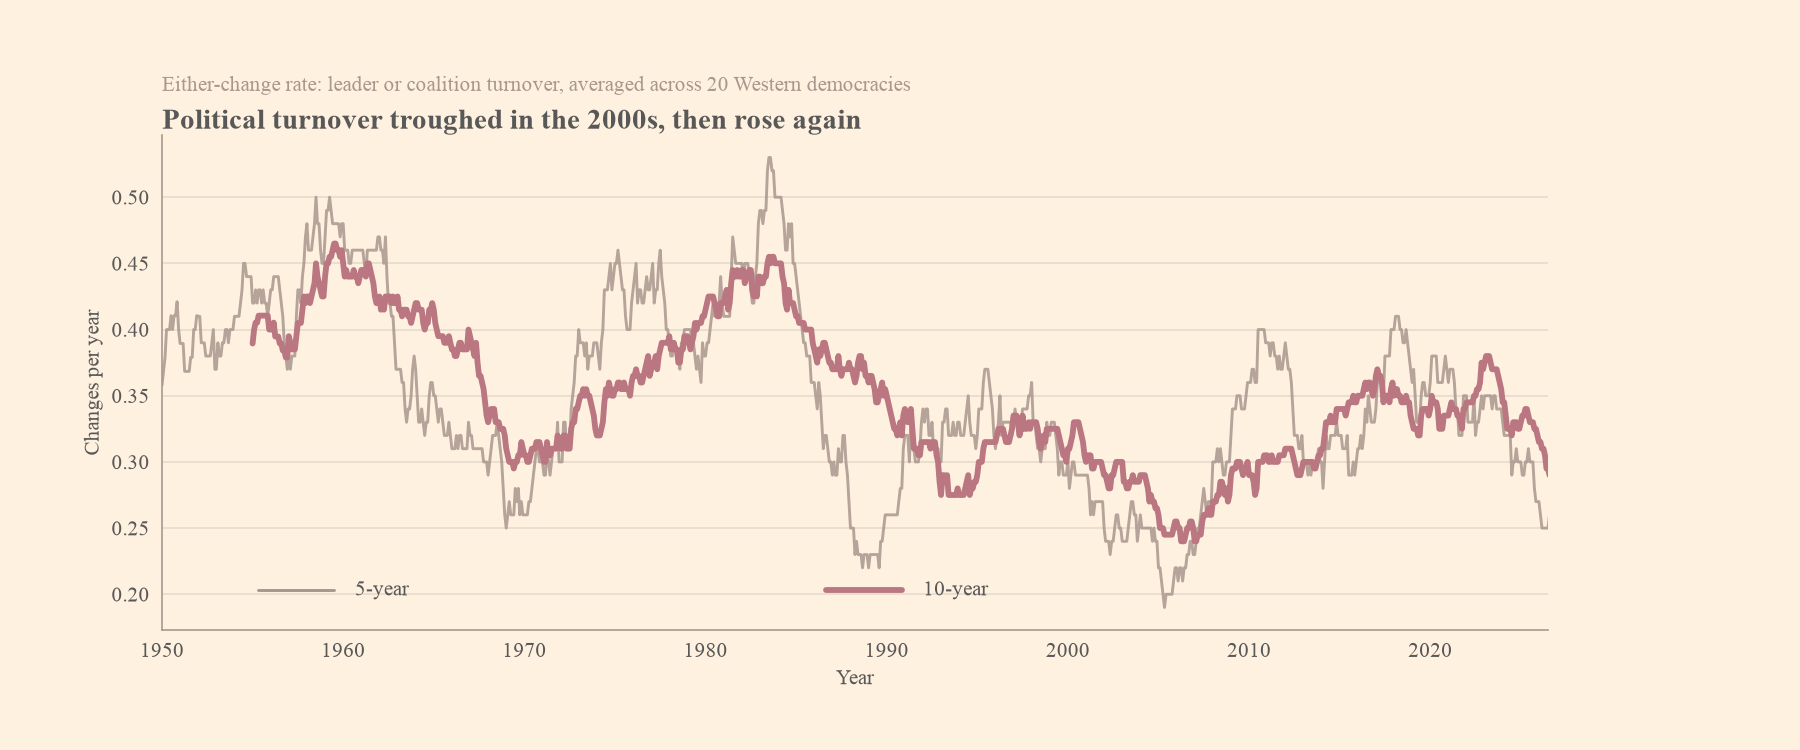
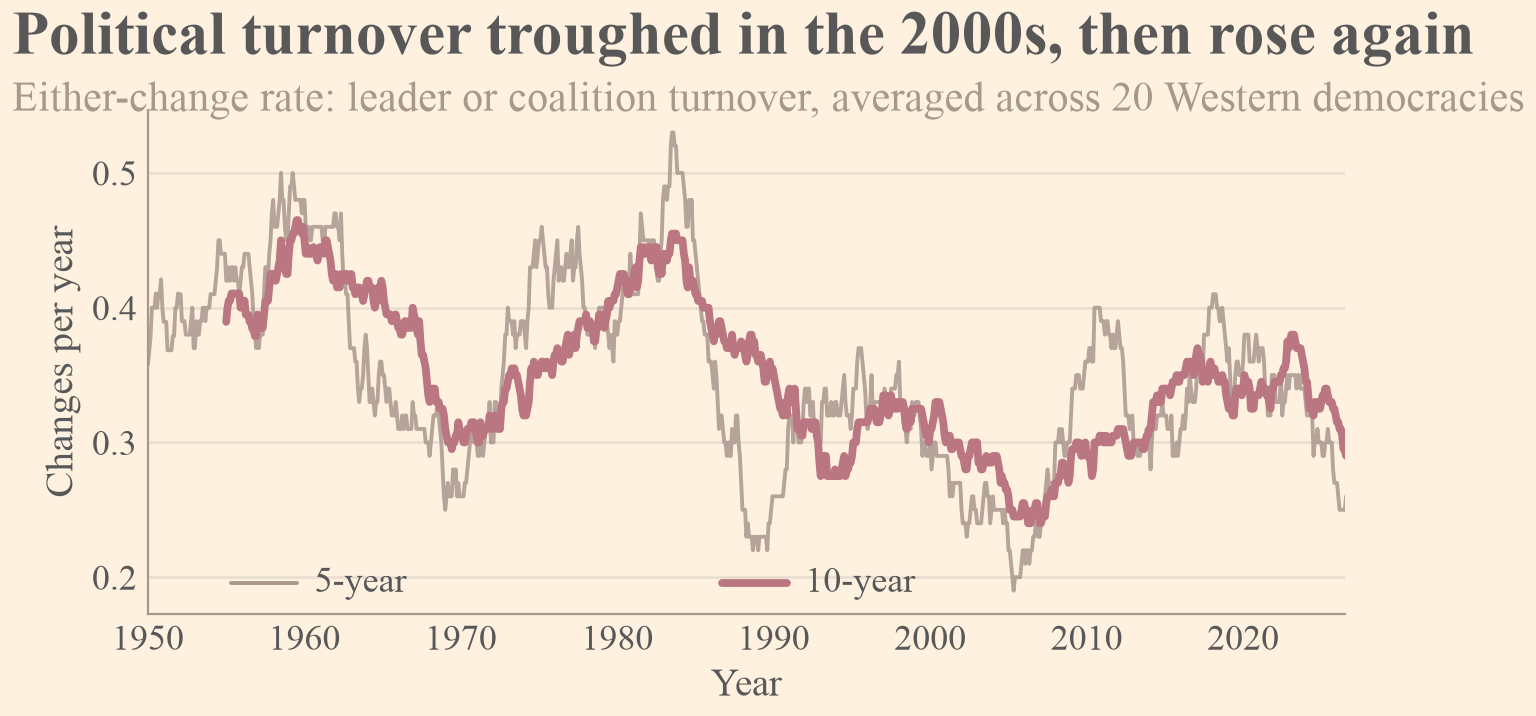
Improve instability post chart readability on the page.
Use article-width export, larger type, tighter margins, and regenerated PNGs.

diff --git a/scripts/generate_instability_charts.py b/scripts/generate_instability_charts.py
@@ -19,6 +19,16 @@ GRAY_MED = "#A9978E"
 GRAY_LIGHT = "#E8DDD0"
 PLOT_START = pd.Timestamp("1950-01-01")
 PLOT_WINDOWS = [5, 10]
+# Sized for ~680px article width; fonts must stay readable after scaling.
+FIG_W = 6.8
+FIG_H_SINGLE = 3.5
+FIG_H_DUAL = 3.9
+DPI = 200
+TITLE_SIZE = 22
+SUBTITLE_SIZE = 15
+LABEL_SIZE = 14
+TICK_SIZE = 13
+LEGEND_SIZE = 13
 WINDOW_STYLE = {
     10: {"color": ACCENT, "linewidth": 2.8, "alpha": 1.0, "label": "10-year"},
     5: {"color": GRAY_MED, "linewidth": 1.4, "alpha": 0.85, "label": "5-year"},
@@ -50,12 +60,43 @@ def _swd_axes(ax: plt.Axes) -> None:
     ax.spines["right"].set_visible(False)
     ax.spines["left"].set_color(GRAY_MED)
     ax.spines["bottom"].set_color(GRAY_MED)
-    ax.tick_params(axis="both", colors=TEXT, labelsize=10, length=0, pad=6)
+    ax.tick_params(axis="both", colors=TEXT, labelsize=TICK_SIZE, length=0, pad=4)
     ax.yaxis.grid(True, color=GRAY_LIGHT, linewidth=0.9)
     ax.set_axisbelow(True)
 
 
-def _legend_above_xaxis(ax: plt.Axes, entries: list[tuple], y: float = 0.08) -> None:
+def _blog_headlines(fig: plt.Figure, title: str, subtitle: str) -> None:
+    fig.text(
+        0.0,
+        1.0,
+        title,
+        fontsize=TITLE_SIZE,
+        fontweight="bold",
+        color=TEXT,
+        ha="left",
+        va="top",
+        transform=fig.transFigure,
+    )
+    fig.text(
+        0.0,
+        0.90,
+        subtitle,
+        fontsize=SUBTITLE_SIZE,
+        color=GRAY_MED,
+        ha="left",
+        va="top",
+        transform=fig.transFigure,
+    )
+
+
+def _blog_margins(fig: plt.Figure, *, dual_axis: bool = False) -> None:
+    if dual_axis:
+        fig.subplots_adjust(left=0.11, right=0.89, top=0.86, bottom=0.14)
+    else:
+        fig.subplots_adjust(left=0.10, right=0.98, top=0.86, bottom=0.14)
+
+
+def _legend_above_xaxis(ax: plt.Axes, entries: list[tuple], y: float = 0.06) -> None:
     if not entries:
         return
     width = 0.82
@@ -82,10 +123,14 @@ def _legend_above_xaxis(ax: plt.Axes, entries: list[tuple], y: float = 0.08) -> 
             transform=ax.transAxes,
             va="center",
             ha="left",
-            fontsize=10,
+            fontsize=LEGEND_SIZE,
             color=TEXT,
             clip_on=False,
         )
+
+
+def _save(fig: plt.Figure, path: Path) -> None:
+    fig.savefig(path, dpi=DPI, facecolor=BG, bbox_inches="tight", pad_inches=0.06)
 
 
 def _load_western_either() -> pd.DataFrame:
@@ -157,7 +202,7 @@ def _either_5yr_annual(western_either: pd.DataFrame) -> pd.DataFrame:
 
 
 def plot_either_change(western_either: pd.DataFrame, output_dir: Path) -> Path:
-    fig, ax = plt.subplots(figsize=(12, 5))
+    fig, ax = plt.subplots(figsize=(FIG_W, FIG_H_SINGLE))
     fig.patch.set_facecolor(BG)
     _swd_axes(ax)
 
@@ -179,37 +224,19 @@ def plot_either_change(western_either: pd.DataFrame, output_dir: Path) -> Path:
         lines.append((line, style["label"]))
         data_end = max(data_end, data["date"].max())
 
-    ax.text(
-        0.0,
-        1.08,
-        "Either-change rate: leader or coalition turnover, averaged across 20 Western democracies",
-        transform=ax.transAxes,
-        fontsize=10,
-        color=GRAY_MED,
-        va="bottom",
-        ha="left",
-        clip_on=False,
-    )
-    ax.text(
-        0.0,
-        1.0,
+    _blog_headlines(
+        fig,
         "Political turnover troughed in the 2000s, then rose again",
-        transform=ax.transAxes,
-        fontsize=14,
-        fontweight="bold",
-        color=TEXT,
-        va="bottom",
-        ha="left",
-        clip_on=False,
+        "Either-change rate: leader or coalition turnover, averaged across 20 Western democracies",
     )
-    ax.set_ylabel("Changes per year", fontsize=10)
-    ax.set_xlabel("Year", fontsize=10)
+    ax.set_ylabel("Changes per year", fontsize=LABEL_SIZE)
+    ax.set_xlabel("Year", fontsize=LABEL_SIZE)
     ax.set_xlim(PLOT_START.year, data_end.year + 0.5)
     _legend_above_xaxis(ax, lines)
-    fig.subplots_adjust(left=0.09, right=0.86, top=0.82, bottom=0.16)
+    _blog_margins(fig)
 
     path = output_dir / "either-change-rate.png"
-    fig.savefig(path, dpi=150, facecolor=BG)
+    _save(fig, path)
     plt.close(fig)
     return path
 
@@ -226,7 +253,7 @@ def plot_instability_vs_growth(western_either: pd.DataFrame, output_dir: Path) -
         .sort_values("year")
     )
 
-    fig, ax_instability = plt.subplots(figsize=(12.5, 5.8))
+    fig, ax_instability = plt.subplots(figsize=(FIG_W, FIG_H_DUAL))
     fig.patch.set_facecolor(BG)
     ax_growth = ax_instability.twinx()
     ax_instability.set_facecolor(BG)
@@ -248,33 +275,15 @@ def plot_instability_vs_growth(western_either: pd.DataFrame, output_dir: Path) -
         solid_capstyle="round",
     )
 
-    ax_instability.text(
-        0.0,
-        1.16,
-        "GDP growth = cross-country mean of year-on-year % changes, smoothed over 5 years",
-        transform=ax_instability.transAxes,
-        fontsize=10,
-        color=GRAY_MED,
-        va="bottom",
-        ha="left",
-        clip_on=False,
-    )
-    ax_instability.text(
-        0.0,
-        1.06,
+    _blog_headlines(
+        fig,
         "Instability rose after the 2000s while GDP growth trended lower",
-        transform=ax_instability.transAxes,
-        fontsize=14,
-        fontweight="bold",
-        color=TEXT,
-        va="bottom",
-        ha="left",
-        clip_on=False,
+        "GDP growth = cross-country mean of year-on-year % changes, smoothed over 5 years",
     )
 
-    ax_instability.set_ylabel("Either-changes per year", color=ACCENT, fontsize=10)
-    ax_growth.set_ylabel("GDP growth (%)", color=SECONDARY, fontsize=10)
-    ax_instability.set_xlabel("Year", fontsize=10)
+    ax_instability.set_ylabel("Either-changes per year", color=ACCENT, fontsize=LABEL_SIZE)
+    ax_growth.set_ylabel("GDP growth (%)", color=SECONDARY, fontsize=LABEL_SIZE)
+    ax_instability.set_xlabel("Year", fontsize=LABEL_SIZE)
     ax_instability.set_xlim(combined["year"].min() - 0.5, combined["year"].max() + 0.5)
     ax_instability.set_ylim(0, combined["either_change_rate"].max() * 1.45 + 0.05)
     growth_pad = max(
@@ -293,9 +302,9 @@ def plot_instability_vs_growth(western_either: pd.DataFrame, output_dir: Path) -
     ax_instability.spines["left"].set_color(ACCENT)
     ax_instability.spines["bottom"].set_color(GRAY_MED)
     ax_growth.spines["right"].set_color(SECONDARY)
-    ax_instability.tick_params(axis="y", colors=ACCENT, labelsize=10, length=0, pad=6)
-    ax_growth.tick_params(axis="y", colors=SECONDARY, labelsize=10, length=0, pad=6)
-    ax_instability.tick_params(axis="x", colors=TEXT, labelsize=10, length=0, pad=6)
+    ax_instability.tick_params(axis="y", colors=ACCENT, labelsize=TICK_SIZE, length=0, pad=4)
+    ax_growth.tick_params(axis="y", colors=SECONDARY, labelsize=TICK_SIZE, length=0, pad=4)
+    ax_instability.tick_params(axis="x", colors=TEXT, labelsize=TICK_SIZE, length=0, pad=4)
     ax_instability.yaxis.grid(True, color=GRAY_LIGHT, linewidth=0.9)
     ax_instability.set_axisbelow(True)
 
@@ -306,10 +315,10 @@ def plot_instability_vs_growth(western_either: pd.DataFrame, output_dir: Path) -
             (line_growth, "GDP growth (5-year)"),
         ],
     )
-    fig.subplots_adjust(left=0.09, right=0.88, top=0.82, bottom=0.16)
+    _blog_margins(fig, dual_axis=True)
 
     path = output_dir / "instability-vs-gdp-growth.png"
-    fig.savefig(path, dpi=150, facecolor=BG)
+    _save(fig, path)
     plt.close(fig)
     return path
 
@@ -342,7 +351,7 @@ def plot_instability_vs_stress(western_either: pd.DataFrame, output_dir: Path) -
         subset=["gdp_stress_lagged"]
     )
 
-    fig, ax_instability = plt.subplots(figsize=(12.5, 5.8))
+    fig, ax_instability = plt.subplots(figsize=(FIG_W, FIG_H_DUAL))
     fig.patch.set_facecolor(BG)
     ax_stress = ax_instability.twinx()
     ax_instability.set_facecolor(BG)
@@ -365,33 +374,15 @@ def plot_instability_vs_stress(western_either: pd.DataFrame, output_dir: Path) -
     )
 
     corr_bits = ", ".join(f"lag {lag}: r={lag_corrs[lag]:.2f}" for lag in range(0, 4))
-    ax_instability.text(
-        0.0,
-        1.16,
-        f"Correlations (instability vs stress): {corr_bits} – strongest at lag {best_lag}",
-        transform=ax_instability.transAxes,
-        fontsize=10,
-        color=GRAY_MED,
-        va="bottom",
-        ha="left",
-        clip_on=False,
-    )
-    ax_instability.text(
-        0.0,
-        1.06,
+    _blog_headlines(
+        fig,
         "GDP stress peaks often align with later instability",
-        transform=ax_instability.transAxes,
-        fontsize=14,
-        fontweight="bold",
-        color=TEXT,
-        va="bottom",
-        ha="left",
-        clip_on=False,
+        f"Correlations (instability vs stress): {corr_bits} – strongest at lag {best_lag}",
     )
 
-    ax_instability.set_ylabel("Either-changes per year", color=ACCENT, fontsize=10)
-    ax_stress.set_ylabel("GDP growth stress (pp)", color=SECONDARY, fontsize=10)
-    ax_instability.set_xlabel("Year", fontsize=10)
+    ax_instability.set_ylabel("Either-changes per year", color=ACCENT, fontsize=LABEL_SIZE)
+    ax_stress.set_ylabel("GDP growth stress (pp)", color=SECONDARY, fontsize=LABEL_SIZE)
+    ax_instability.set_xlabel("Year", fontsize=LABEL_SIZE)
     ax_instability.set_xlim(plot_df["year"].min() - 0.5, plot_df["year"].max() + 0.5)
     ax_instability.set_ylim(0, plot_df["either_change_rate"].max() * 1.45 + 0.05)
     stress_pad = max(plot_df["gdp_stress_lagged"].max() * 0.25, 0.3)
@@ -404,9 +395,9 @@ def plot_instability_vs_stress(western_either: pd.DataFrame, output_dir: Path) -
     ax_instability.spines["left"].set_color(ACCENT)
     ax_instability.spines["bottom"].set_color(GRAY_MED)
     ax_stress.spines["right"].set_color(SECONDARY)
-    ax_instability.tick_params(axis="y", colors=ACCENT, labelsize=10, length=0, pad=6)
-    ax_stress.tick_params(axis="y", colors=SECONDARY, labelsize=10, length=0, pad=6)
-    ax_instability.tick_params(axis="x", colors=TEXT, labelsize=10, length=0, pad=6)
+    ax_instability.tick_params(axis="y", colors=ACCENT, labelsize=TICK_SIZE, length=0, pad=4)
+    ax_stress.tick_params(axis="y", colors=SECONDARY, labelsize=TICK_SIZE, length=0, pad=4)
+    ax_instability.tick_params(axis="x", colors=TEXT, labelsize=TICK_SIZE, length=0, pad=4)
     ax_instability.yaxis.grid(True, color=GRAY_LIGHT, linewidth=0.9)
     ax_instability.set_axisbelow(True)
 
@@ -417,10 +408,10 @@ def plot_instability_vs_stress(western_either: pd.DataFrame, output_dir: Path) -
             (line_stress, f"GDP growth stress ({lag_years}yr lead)"),
         ],
     )
-    fig.subplots_adjust(left=0.09, right=0.88, top=0.82, bottom=0.16)
+    _blog_margins(fig, dual_axis=True)
 
     path = output_dir / "instability-vs-gdp-stress.png"
-    fig.savefig(path, dpi=150, facecolor=BG)
+    _save(fig, path)
     plt.close(fig)
     return path
 
